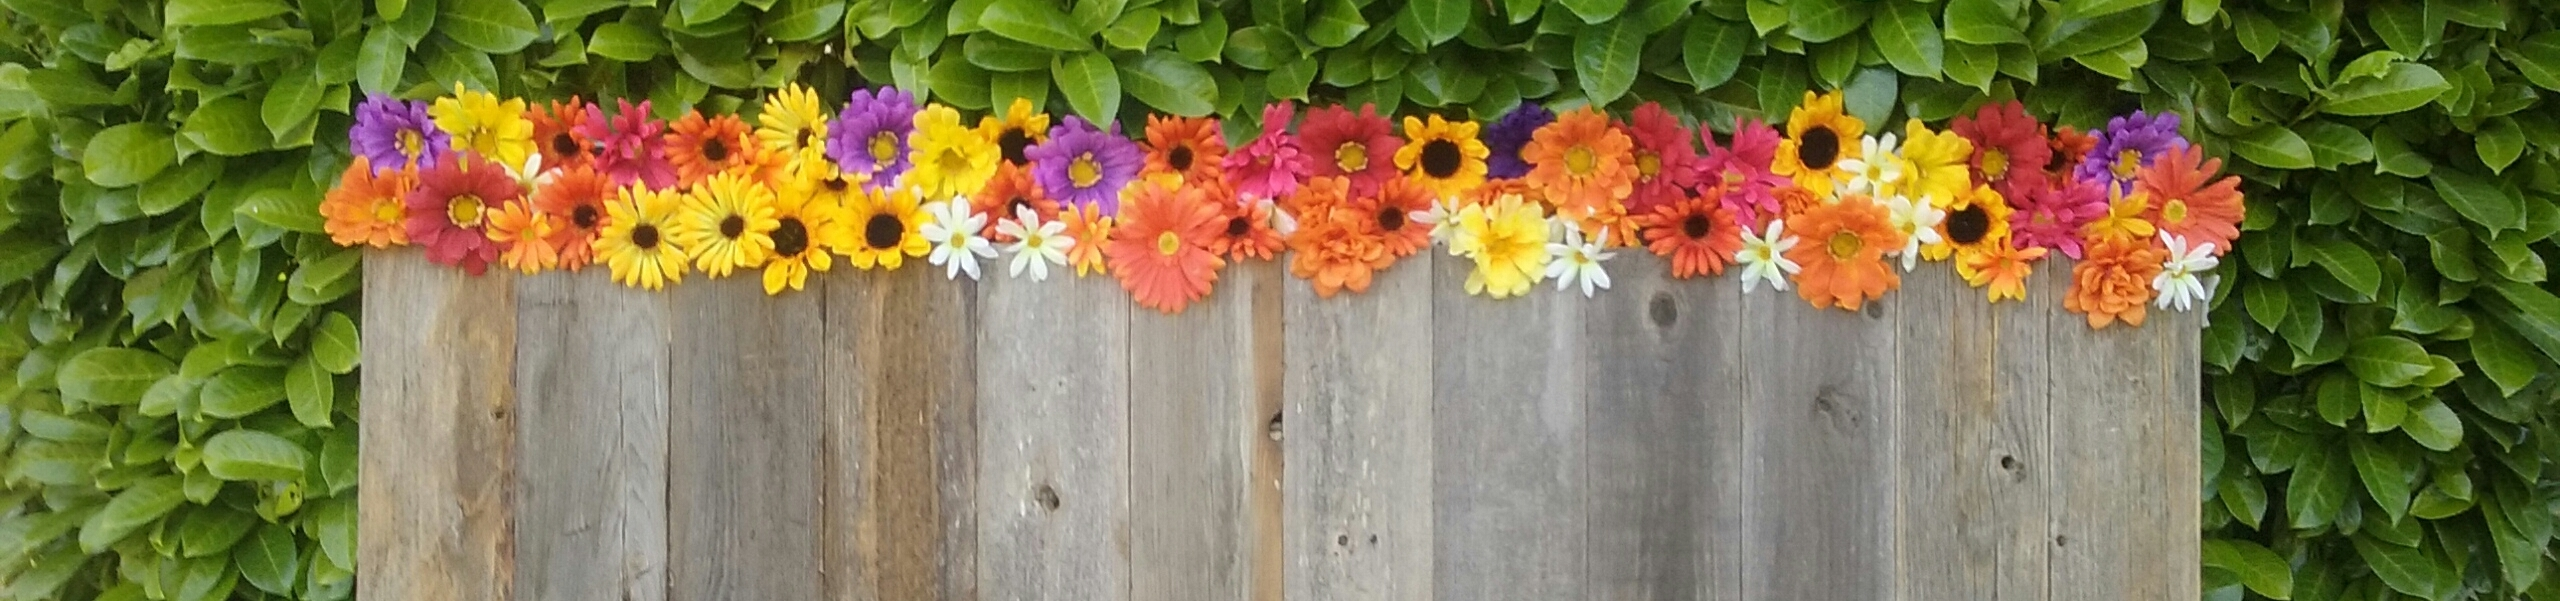
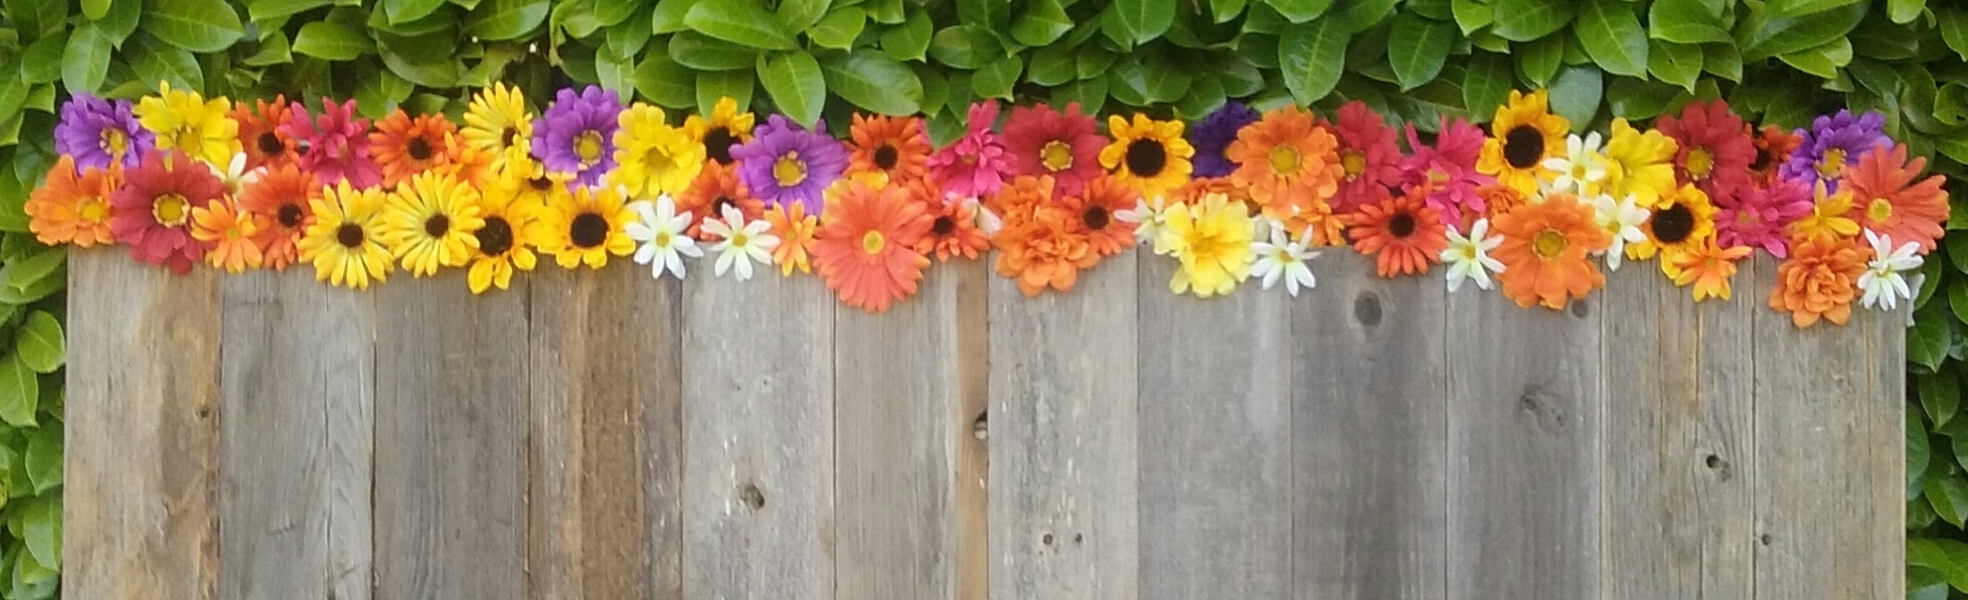
inserting image above nav for flowers

diff --git a/Site/header.html b/Site/header.html
@@ -1,15 +1,21 @@
 <div id="header">  
 	<nav class="navbar navbar-default navbar-static-top">
       <div class="container">
-      <div class="brand"> 
-		<div class="row ">
+     
+	
+		    <img src="img/header-brand.jpg" class="img-responsive" />
+		 
+		 	<div class="main">
+		 	 <div class="row ">	
+		 	 
 			 <div class="navbar-header">
+			
 				<h1> <a class="logo" href="index.html"> <span class="glyphicon glyphicon-leaf" aria-hidden="true"></span> Petal Pusher Flowers</a> </h1>
 				<button class="navbar-toggle" type="button" data-toggle="collapse" data-target="#navbar">Menu</button>
 			</div> 
 		 </div>
-	  </div>
-	  <div class="main">
+
+	
 		 <div class="row">
 			<ul class="nav navbar-nav navbar-right">
 				<div class="hidden-xs col-sm-2">

diff --git a/Site/css/style.css b/Site/css/style.css
@@ -20,18 +20,17 @@ body {
   font-weight:700;
 }
 nav {
-  background-repeat: no-repeat;
-  background-attachment: scroll;
-  background-image:url('../img/header.jpg');
-  background-position: top;
-  background-size:contain;
 }
 .brand {
-	margin-top:125px;
-	text-shadow: -2px -2px #354F3A;
+	padding: 0 30px;
+	text-align:left;
 }
 .main {
-
+  background-repeat: repeat-y;
+  background-attachment: scroll;
+  background-image:url('../img/header-main.jpg');
+  background-position: top;
+  background-size:cover;
   padding: 0 30px;
 }
 
